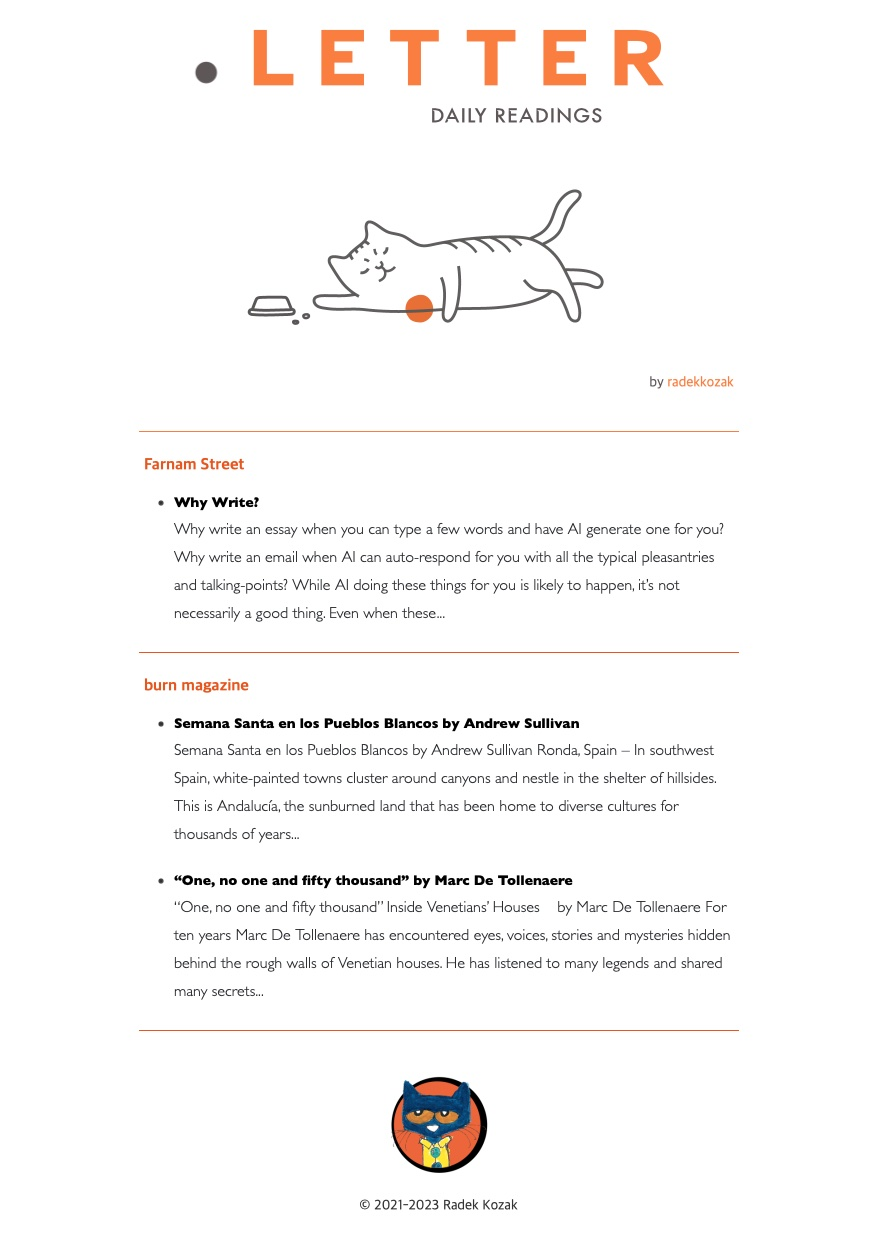
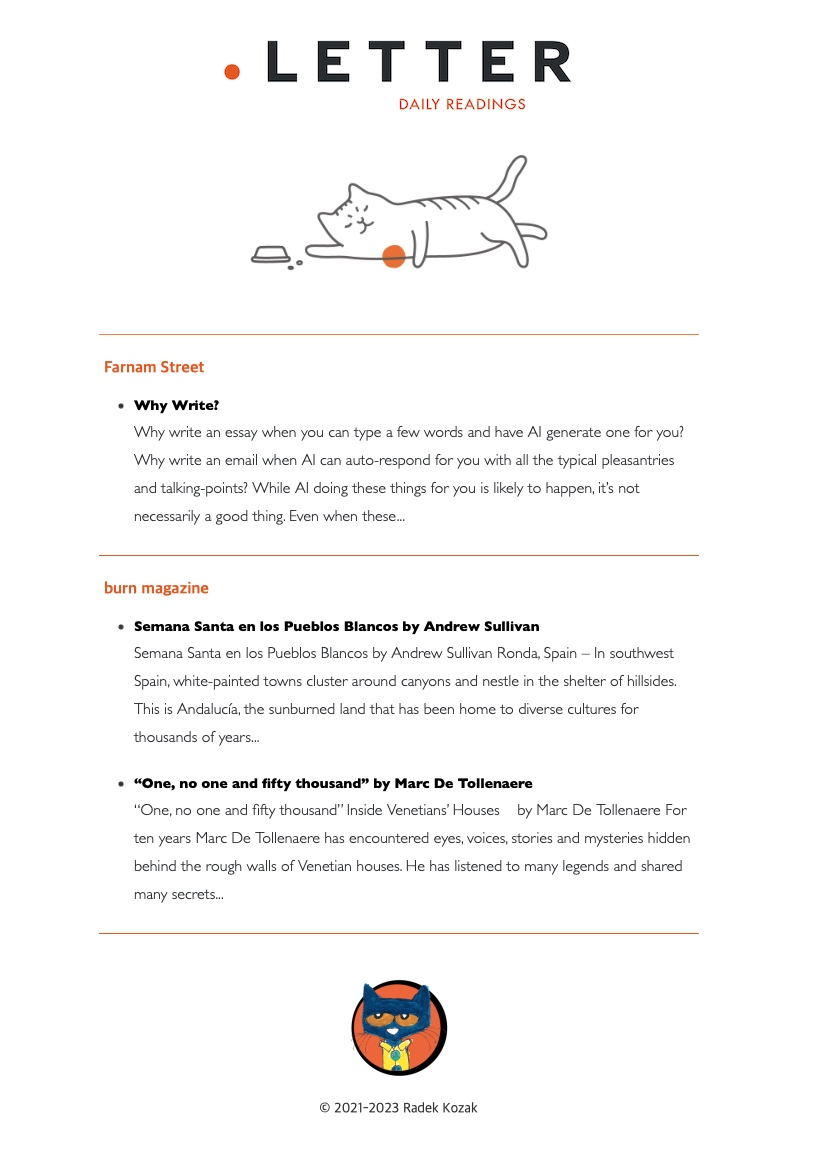
refactor: Change letter visuals

diff --git a/emails/letter/html.html b/emails/letter/html.html
@@ -6,7 +6,8 @@
     <meta charset="UTF-8">
     <meta name="viewport"
           content="initial-scale=1.0,maximum-scale=1.0,minimum-scale=1.0,user-scalable=yes,width=device-width,height=device-height"/>
-    <meta name="description" content="Letter - your Daily Readings delivered to your inbox. Start your day with inspiration!"/>
+    <meta name="description"
+          content="Letter - your Daily Readings delivered to your inbox. Start your day with inspiration!"/>
     <meta name="twitter:title" content="Letter - your Daily Readings delivered to your inbox"/>
     <meta name="twitter:description" content="Start your day with inspiration!"/>
     <meta name="twitter:card" content="summary"/>
@@ -18,69 +19,73 @@
     <meta property="og:image" content="https://letter.radekkozak.com/assets/cat-avatar.png"/>
 
     <style>
-      @media only screen and (max-width: 640px) {
-        .stb-left-cell,
-        .stb-right-cell {
-          max-width: 100% !important;
-          width: 100% !important;
-        }
+        @media only screen and (max-width: 640px) {
+            #letter-header, #letter-cat {
+                width: 70% !important;
+            }
 
-        .stb-left-cell img,
-        .stb-right-cell img {
-          width: 100%;
-          height: auto;
-        }
+            .stb-left-cell,
+            .stb-right-cell {
+                max-width: 100% !important;
+                width: 100% !important;
+            }
 
-        .stb-left-cell > div {
-          padding: 5px 10px !important;
-          box-sizing: border-box;
-        }
+            .stb-left-cell img,
+            .stb-right-cell img {
+                width: 100%;
+                height: auto;
+            }
 
-        .stb-right-cell > div {
-          padding: 5px 10px !important;
-          box-sizing: border-box;
-        }
+            .stb-left-cell > div {
+                padding: 5px 10px !important;
+                box-sizing: border-box;
+            }
 
-        .stb-cell-wrap {
-          padding: 0 0 0 0 !important;
-        }
+            .stb-right-cell > div {
+                padding: 5px 10px !important;
+                box-sizing: border-box;
+            }
 
-        .stb-cell-wrap > tr > td {
-          padding: 0 0 !important;
-        }
+            .stb-cell-wrap {
+                padding: 0 0 0 0 !important;
+            }
 
-        .stb-cell-wrap > tbody > tr > td {
-          padding: 0 0 !important;
-        }
+            .stb-cell-wrap > tr > td {
+                padding: 0 0 !important;
+            }
 
-        .stb-cell-wrap > tbody > tr > td.stb-text-box {
-          padding: 0 10px !important;
-        }
+            .stb-cell-wrap > tbody > tr > td {
+                padding: 0 0 !important;
+            }
 
-        .stb-left-cell > div.stb-text-box {
-          padding: 5px 10px !important;
-        }
+            .stb-cell-wrap > tbody > tr > td.stb-text-box {
+                padding: 0 10px !important;
+            }
 
-        .stb-right-cell > div.stb-text-box {
-          padding: 5px 10px !important;
-        }
+            .stb-left-cell > div.stb-text-box {
+                padding: 5px 10px !important;
+            }
 
-        .stb-container {
-          width: 100% !important
-        }
+            .stb-right-cell > div.stb-text-box {
+                padding: 5px 10px !important;
+            }
 
-        .stb-container * {
-          line-height: 1.8 !important;
-        }
+            .stb-container {
+                width: 100% !important
+            }
 
-        .stb-container a {
-          text-decoration: underline;
-        }
+            .stb-container * {
+                line-height: 1.8 !important;
+            }
 
-        .stb-cta-only-wrap {
-          padding: 10px 0 !important;
+            .stb-container a {
+                text-decoration: underline;
+            }
+
+            .stb-cta-only-wrap {
+                padding: 10px 0 !important;
+            }
         }
-      }
     </style>
 </head>
 <body>
@@ -101,10 +106,12 @@
                             <tbody>
                             <tr>
                                 <td style="padding: 0;" width="100%">
-                                    <div>
-                                        <p style="text-align: center; margin: 0 auto;width:100%"><img
-                                                src="https://letter.radekkozak.com/assets/letter-header.jpg"
-                                                style="width: 600; height: 190; display: inline; vertical-align: middle;
+                                    <div style="margin-top: 2rem">
+                                        <p id="letter-header" style="text-align: center; margin: 0 auto;width:100%">
+                                            <img srcset="https://letter.radekkozak.com/assets/letter-header2x.jpg 2x,
+                                            https://letter.radekkozak.com//assets/letter-header.jpg 1x"
+                                                 src="https://letter.radekkozak.com/assets/letter-header-small.jpg" width="358px"
+                                                 style="display: inline; vertical-align: middle;
                                                 max-width: 100%; border-width: 0; border-color: initial;
                                                 border-image: initial; text-align: justify; margin: 0 auto;">
                                         </p>
@@ -128,11 +135,13 @@
                             <tbody>
                             <tr>
                                 <td style="padding: 0 15px;" width="100%">
-                                    <div>
-                                        <p style="text-align: justify; margin: 0;width:100%"><img
-                                                src="https://letter.radekkozak.com/assets/letter-cat.gif" alt="Cat"
-                                                style="width: 100%; display: inline; vertical-align: middle; max-width: 100%; border-width: 0; border-color: initial; border-image: initial; text-align: justify;"
-                                                width="600"></p>
+                                    <div style="margin-top: 1.2rem;margin-bottom: 3rem">
+                                        <p id="letter-cat" style="text-align: center; margin: 0 auto;width:100%"><img
+                                                src="https://letter.radekkozak.com/assets/letter-cat.gif"
+                                                alt="Letter Cat" width="300"
+                                                style="display: inline; vertical-align: middle; max-width: 100%;
+                                                border-width: 0; border-color: initial; border-image: initial; text-align: justify;"
+                                        ></p>
                                     </div>
                                 </td>
                             </tr>
@@ -142,34 +151,7 @@
                 </tr>
                 </tbody>
             </table>
-            <table class="stb-block" border="0" cellpadding="0" cellspacing="0"
-                   style="overflow: hidden; margin: 0 auto; padding: 0; width:100%;max-width: 630px; clear: both; background: none;border:0;"
-                   width="100%">
-                <tbody>
-                <tr>
-                    <td style="padding: 0; line-height: 1.8; border-width: 0; font-size: 14px;">
-                        <table class="stb-cell-wrap" border="0" cellpadding="0" cellspacing="0"
-                               style="padding: 0 5px;" width="100%">
-                            <tbody>
-                            <tr>
-                                <td class="stb-text-box"
-                                    style="padding: 0 15px;mso-line-height-rule: exactly;line-height:1.8;-ms-text-size-adjust: 100%;-webkit-text-size-adjust: 100%;word-break: break-word;font-size: 14px;font-family: AppleSDGothic, apple sd gothic neo, noto sans korean, noto sans korean regular, noto sans cjk kr, noto sans cjk, nanum gothic, malgun gothic, dotum, arial, helvetica, MS Gothic, sans-serif !important; color: #333333"
-                                    width="100%">
-                                    <div style="text-align: right;"><span
-                                            style="font-family: AppleSDGothic, apple sd gothic neo, noto sans korean, noto sans korean regular, noto sans cjk kr, noto sans cjk, nanum gothic, malgun gothic, dotum, arial, helvetica, MS Gothic, sans-serif; font-style: normal;"><span
-                                            style="color: rgb(93,87,87);">by </span><a
-                                            href="https://github.com/radekkozak/letter"
-                                            style="font-style: normal; font-weight: normal; text-decoration: none; color: #FF7E36; display: inline;"
-                                            class="link-edited" target="_blank">radekkozak</a></span></div>
-                                </td>
-                            </tr>
-                            </tbody>
-                        </table>
-                    </td>
-                </tr>
-                </tbody>
-            </table>
-            <br/><br/>
+
             <table class="stb-block" border="0" cellpadding="0" cellspacing="0"
                    style="overflow: hidden; margin: 0 auto; padding: 0; width:100%;max-width: 630px; clear: both; background: none;border:0;"
                    width="100%">
@@ -198,7 +180,8 @@
                 <tbody>
                 <tr>
                     <td style="padding: 15px 0 15px 0; line-height: 1.8; border-width: 0; font-size: 14px;">
-                        <table class="stb-cell-wrap" border="0" cellpadding="0" cellspacing="0" style="padding: 0 5px;"
+                        <table class="stb-cell-wrap" border="0" cellpadding="0" cellspacing="0"
+                               style="padding: 0 5px;"
                                width="100%">
                             <tbody>
                             <tr>
@@ -220,7 +203,8 @@
                                                    target="_blank">{{title}}</a><br/></div>
                                             <div style="cursor:auto;color:#292c2f;font-family:Gill Sans, sans-serif;
                                             font-size:16px; font-weight:300; line-height:1.8; letter-spacing:0;
-                                            text-align:left; text-transform:none">{{ contentSnippet }}
+                                            text-align:left; text-transform:none">{{ contentSnippet
+                                                }}
                                             </div>
                                         </li>
                                         {{/each}}
@@ -264,8 +248,10 @@
                     <td style="text-align:center; padding: 40px 0 40px 0;" class="sponsor">
                         <a href="https://github.com/radekkozak/letter" target="_blank"
                            style="text-decoration: none; color: rgb(51, 51, 51); display: inline;">
-                            <img src="https://letter.radekkozak.com/assets/cat-avatar.png" alt="Letter - Your Daily Readings"
-                                 border="0" style="width:97px;height:auto;vertical-align: text-top;border:0;"
+                            <img src="https://letter.radekkozak.com/assets/cat-avatar.png"
+                                 alt="Letter - Your Daily Readings"
+                                 border="0"
+                                 style="width:97px;height:auto;vertical-align: text-top;border:0;"
                                  width="97px"><br/><br/>
                             <p style="font-size: 13px;color:#333333;font-weight: normal;vertical-align: text-top;line-height: 1.25;margin:6px 0;padding:0;font-family: AppleSDGothic, apple sd gothic neo, noto sans korean, noto sans korean regular, noto sans cjk kr, noto sans cjk, nanum gothic, malgun gothic, dotum, arial, helvetica, MS Gothic, sans-serif;">
                                 © 2021-2023 Radek Kozak</p>

diff --git a/README.md b/README.md
@@ -1,8 +1,9 @@
-<div align="center">
-  <img src="assets/letter-header-slogan.svg" width="75%" />
-<img src="assets/letter-cat.gif" width="75%" />
-  
-</div><br>
+<p align="center" style="margin-left: -1em">
+  <img src="assets/letter-header-slogan.svg" width="40%" /> 
+</p>
+<p align="center">
+<img src="assets/letter-cat.gif" width="55%" />
+</p>
 
 ## A minimalistic *cat-like* app that delivers a digest of your RSS feeds as templated newsletter.
 <br>
@@ -15,24 +16,43 @@ into your inbox.
 
 ## Quick howto
 
-1. Clone repository to desired location (for example your node server)
+- Letter assumes your personal `feeds.opml` in rss folder. You can create it manually from example or just export your feeds from your preferred service (like Feedly or whatever). OPML is de-facto standard for importing and exporting RSS feeds
+  so it should be relatively easy. 
+
+### running automatically with Github Workflows
+
+1. Fork this repository to your Github account
+2. [Create repository secret variables](https://docs.github.com/en/actions/security-guides/encrypted-secrets) with keys as seen in `.env.example` file and values of your own
+3. Rename `letter.yml.example` to `letter.yml` to enable Github Workflow running *letter* every day
+4. (optionally) Change cron time settings in `letter.yml` to your liking. By default *letter* will run at 11am UTC.
+   
+### running as Standalone on your server or local machine
+
+1. Clone repository to desired location
     ```sh
     git clone https://github.com/radekkozak/letter.git
     ```
-   
-2. Install 
+
+2. Install
     ```sh
     npm install
     ```
-   
-3. Create `.env` from example file with your own configuration. For your `feed.opml` file it is probably 
-   best to export feeds from your preferred service like Feedly or whatever. OPML is de-facto standard for importing and exporting RSS feeds 
-   so it should be relatively easy. 
 
-4. Run 
+3. Rename `.env.example` to `.env` and add your own configuration there.
+
+4. Run one time
+
     ```sh
-    node index.js
+    npm run letter
     ```
+or
+
+5. Run periodically
+As described, *letter* is meant to be run at specific schedule. This can easily be achieved via `cron` directive. **Cron tab needs to be created separately**. For example, below settings would run the app every day at 11 o'clock server time (assuming `npm` is correctly in your PATH) 
+
+```bash
+0 11 * * * cd /fullpath/to/your/letter/folder && npm run letter
+```
 
 ## Email newsletter template
 
@@ -40,7 +60,7 @@ Letter uses [Handlebars](https://handlebarsjs.com) with html extension as defaul
 assumes the structure of `html`, `subject` and `text` html files. Here's how *letter* template looks by default:<br><br>
 
 <div align="center">
-    <img src="assets/letter-example.jpg" width="870" height="1250" alt="Default Letter newsletter"/>
+    <img src="assets/letter-example.jpg" width="820px" height="1150px" alt="Default Letter newsletter template"/>
 </div>
 
 ## Notes
